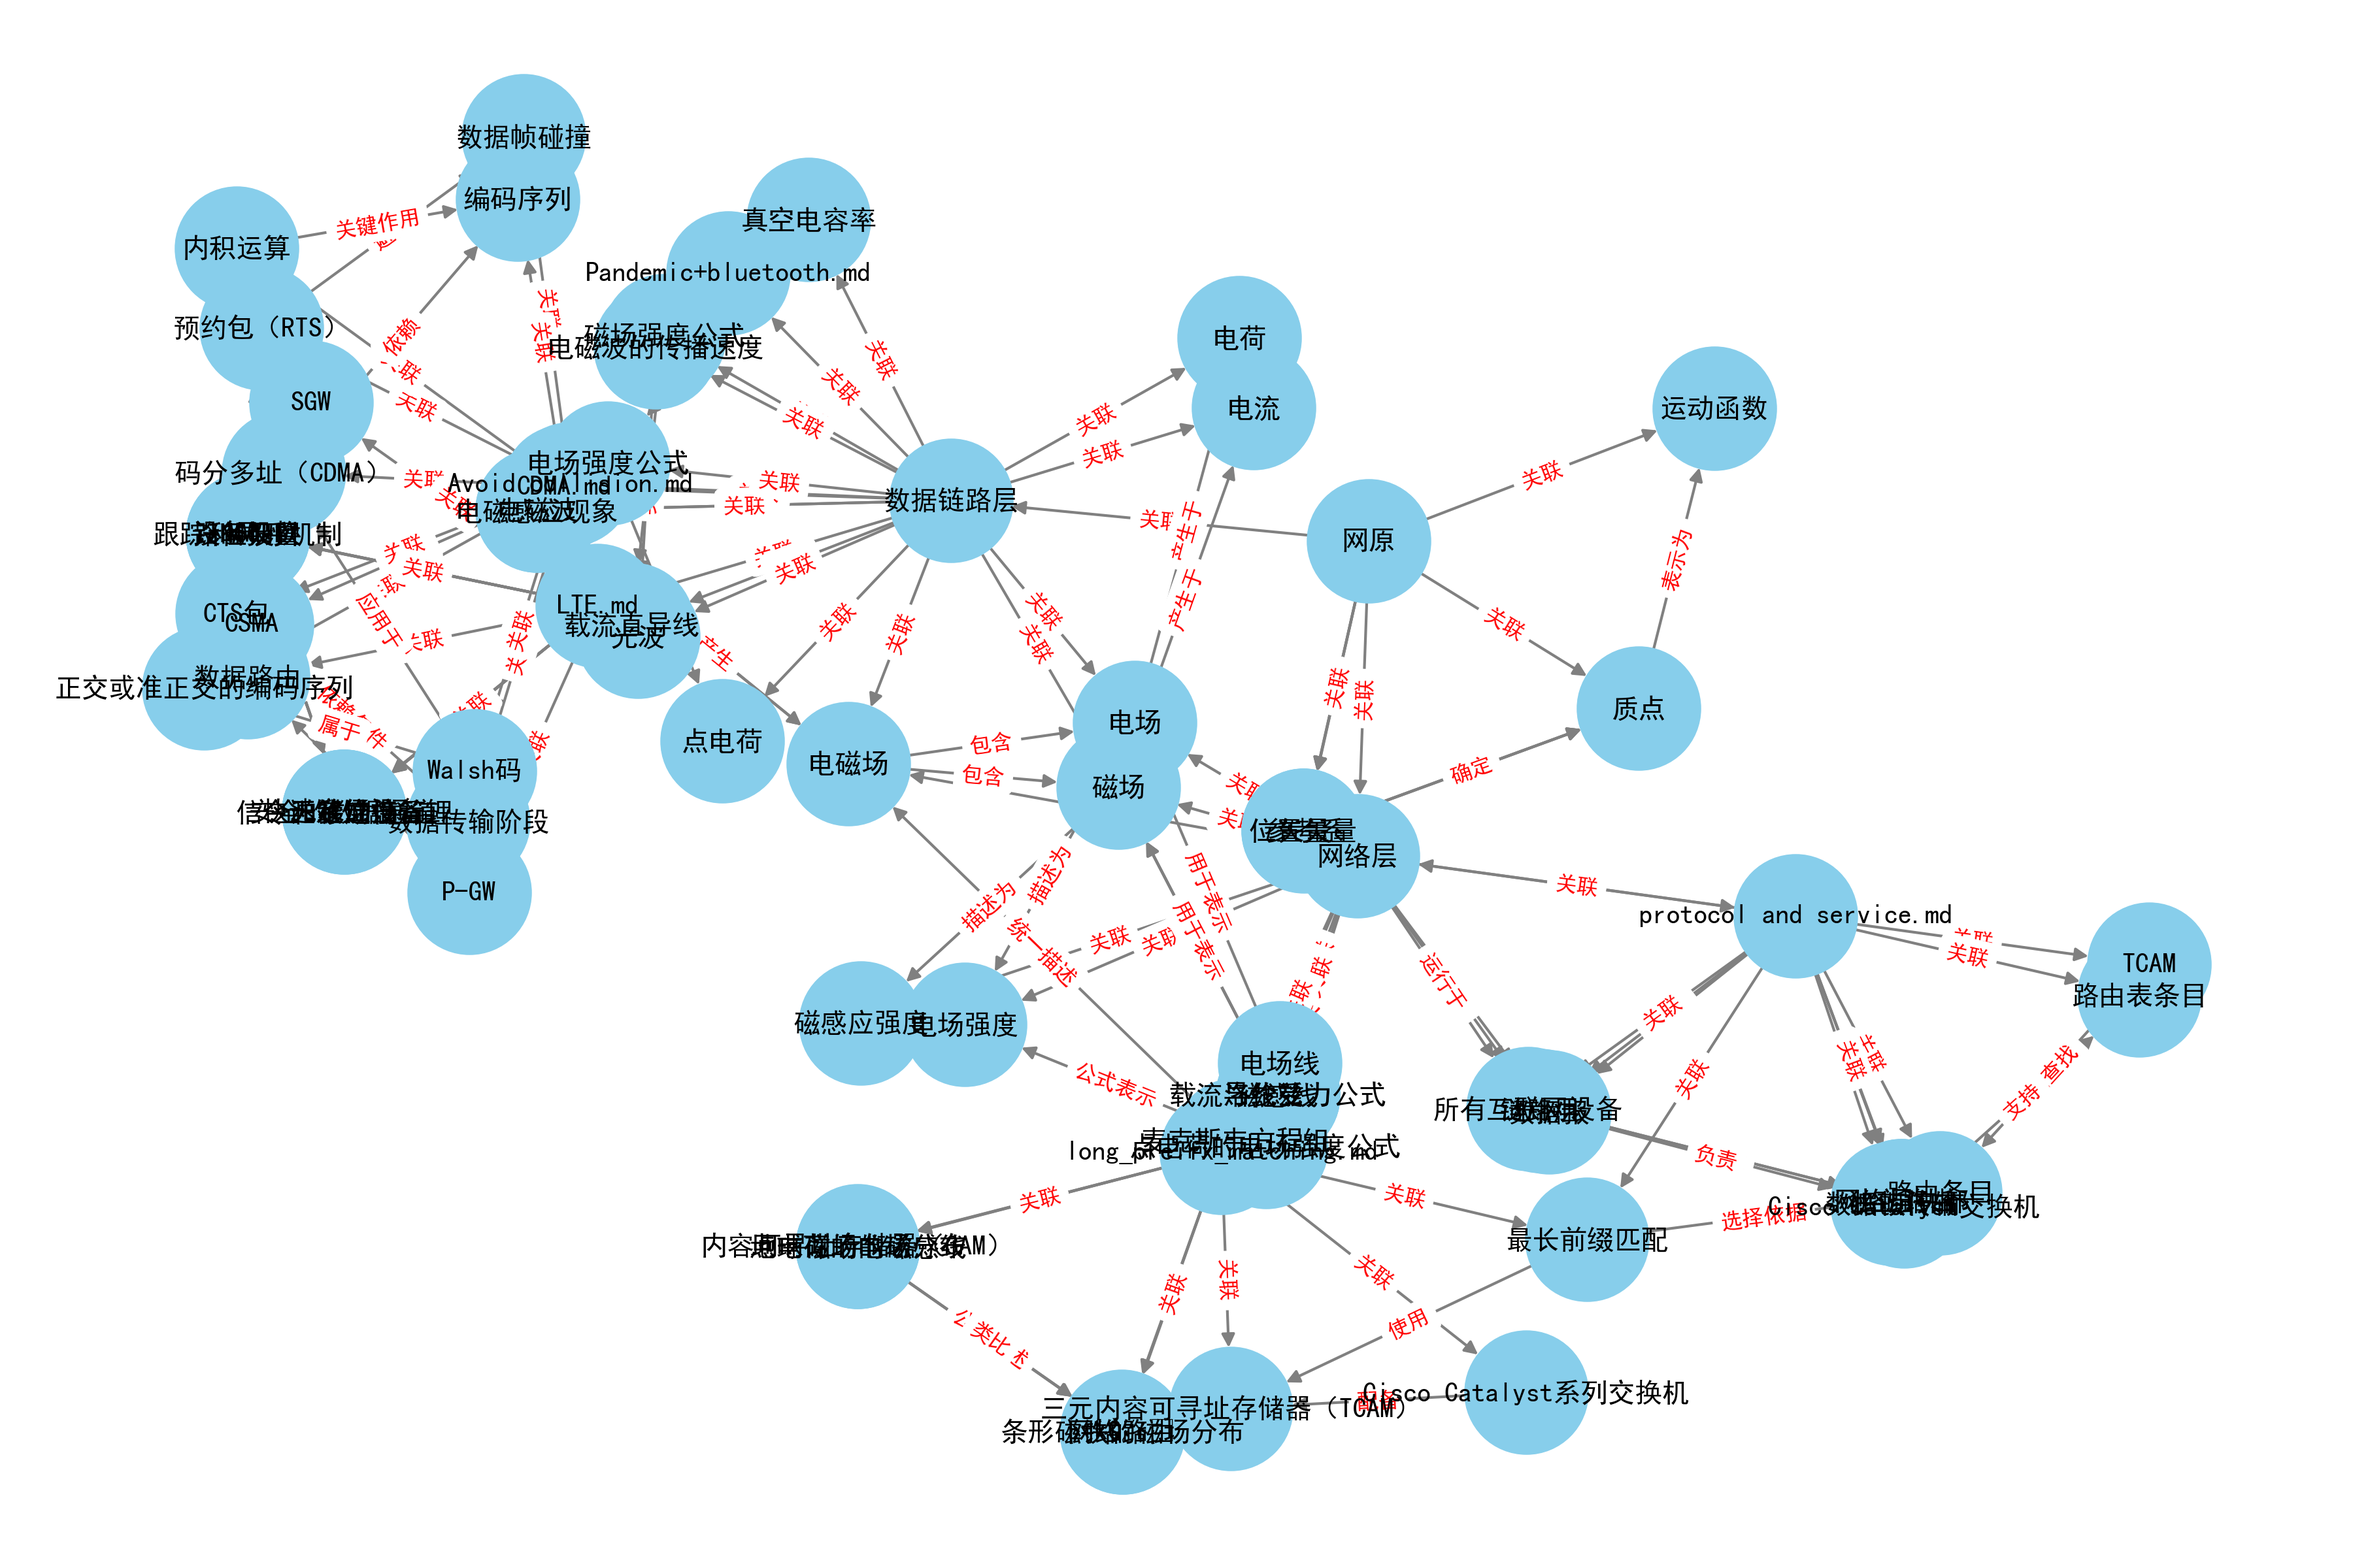
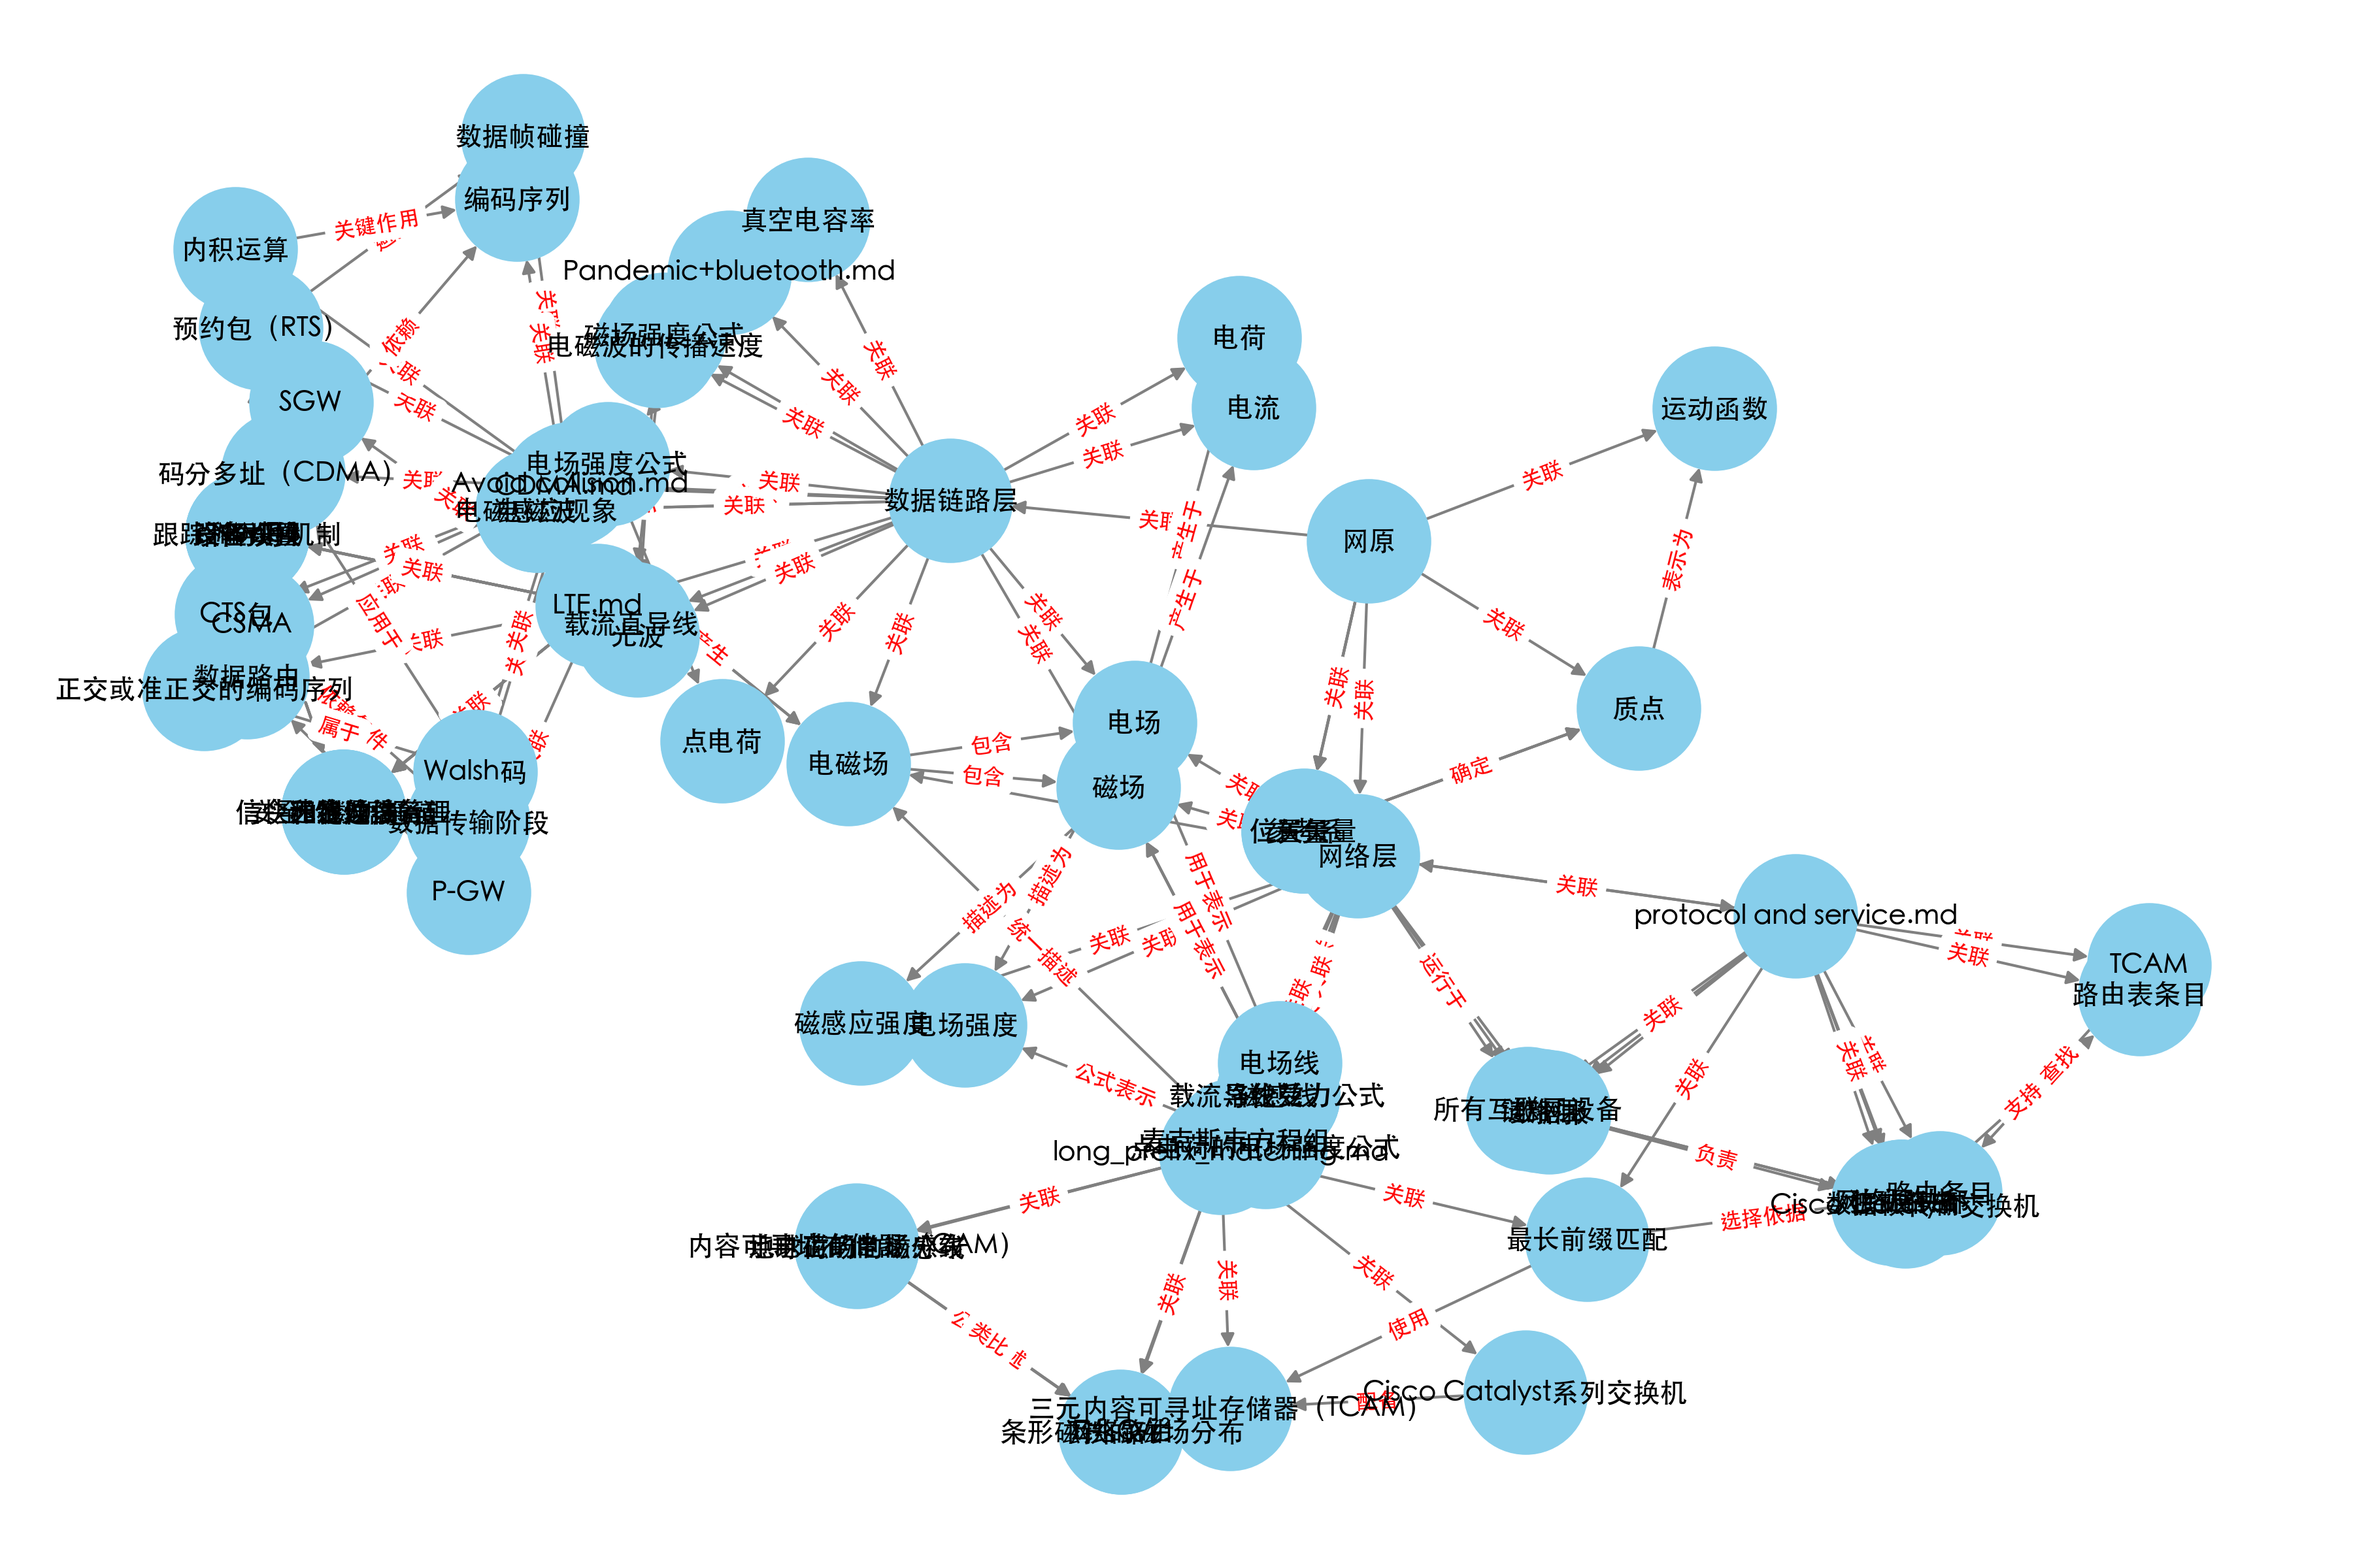
有关mac的一些改动

diff --git a/qg/graph_class.py b/qg/graph_class.py
@@ -1,3 +1,10 @@
+# 在导入matplotlib之前设置后端，避免GUI线程问题
+import matplotlib
+matplotlib.use('Agg')  # 使用非交互式后端
+# 设置环境变量，避免Qt冲突
+import os
+os.environ['QT_QPA_PLATFORM'] = 'offscreen'
+
 import networkx as nx
 from typing import Dict, List, Tuple
 import json
@@ -101,17 +108,20 @@ class KnowledgeGraph:
         """
         print(f"\n🖼 开始可视化知识图谱（最多显示 {max_nodes} 个节点）...")
 
-        # 设置支持中文的字体
-        try:
-            # ✅ Windows 常见字体
-            zh_font = fm.FontProperties(fname="C:/Windows/Fonts/simhei.ttf")
-        except:
-            try:
-                # ✅ MacOS 常见字体
-                zh_font = fm.FontProperties(fname="/System/Library/Fonts/STHeiti Medium.ttc")
-            except:
-                print("⚠ 未找到中文字体，中文可能无法正常显示。")
-                zh_font = None
+        # # 设置支持中文的字体
+        # try:
+        #     # ✅ Windows 常见字体
+        #     zh_font = fm.FontProperties(fname="C:/Windows/Fonts/simhei.ttf")
+        # except:
+        #     try:
+        #         # ✅ MacOS 常见字体
+        #         zh_font = fm.FontProperties(fname="/System/Library/Fonts/STHeiti Medium.ttc")
+        #     except:
+        #         print("⚠ 未找到中文字体，中文可能无法正常显示。")
+        #         zh_font = None
+
+        # 完全避免字体管理器，直接使用字符串
+        print("✅ 使用默认字体设置")
 
         # 限制可视化规模
         subgraph = self.graph.copy()
@@ -119,30 +129,91 @@ class KnowledgeGraph:
             nodes_subset = list(subgraph.nodes)[:max_nodes]
             subgraph = subgraph.subgraph(nodes_subset)
 
-        plt.figure(figsize=(12, 8))
-        # pos = nx.spring_layout(subgraph, weight='weight', seed=42, k=0.8/(len(subgraph)**0.5))
-        # pos = nx.circular_layout(subgraph)  # 替代 spring_layout
-        pos = nx.kamada_kawai_layout(subgraph)  # 替代 spring_layout
+        # 注释掉直接使用matplotlib的代码，改用子进程方式
+        # plt.figure(figsize=(12, 8))
+        # # pos = nx.spring_layout(subgraph, weight='weight', seed=42, k=0.8/(len(subgraph)**0.5))
+        # # pos = nx.circular_layout(subgraph)  # 替代 spring_layout
+        # pos = nx.kamada_kawai_layout(subgraph)  # 替代 spring_layout
 
-        # 绘制节点和边
-        nx.draw(subgraph, pos, with_labels=True, node_color="skyblue", edge_color="gray",
-                node_size=2000, font_size=10, font_family=zh_font.get_name() if zh_font else "sans-serif", arrows=True)
-
-        # 边的关系标签
-        edge_labels = nx.get_edge_attributes(subgraph, 'short')
+        # # 绘制节点和边
+        # nx.draw(subgraph, pos, with_labels=True, node_color="skyblue", edge_color="gray",
+        #         node_size=2000, font_size=10, font_family=zh_font.get_name() if zh_font else "sans-serif", arrows=True)
         
-        nx.draw_networkx_edge_labels(
-            subgraph, pos, edge_labels=edge_labels,
-            font_color='red', font_size=8,
-            font_family=zh_font.get_name() if zh_font else "sans-serif"
-        )
+        
+        try:
+            # 使用子进程来避免Qt和matplotlib的冲突
+            import subprocess
+            import tempfile
+            import pickle
+            
+            print("🔄 使用子进程生成图片...")
+            
+            # 准备数据
+            graph_data = {
+                'nodes': list(subgraph.nodes()),
+                'edges': list(subgraph.edges()),
+                'output_path': output_path
+            }
+            
+            # 创建临时文件保存数据
+            with tempfile.NamedTemporaryFile(mode='wb', suffix='.pkl', delete=False) as f:
+                pickle.dump(graph_data, f)
+                temp_file = f.name
+            
+            # 创建可视化脚本
+            viz_script = f'''
+import matplotlib
+matplotlib.use('Agg')
+import matplotlib.pyplot as plt
+import networkx as nx
+import pickle
+import sys
 
-        plt.axis("off")
-        plt.tight_layout()
-        plt.savefig(output_path, dpi=300)
-        plt.close()
+# 加载数据
+with open('{temp_file}', 'rb') as f:
+    data = pickle.load(f)
 
-        print(f"✅ 可视化完成，图片已保存至: {output_path}")
+# 重建图
+G = nx.DiGraph()
+for node in data['nodes']:
+    G.add_node(node)
+for edge in data['edges']:
+    G.add_edge(edge[0], edge[1])
+
+# 可视化
+plt.figure(figsize=(10, 6))
+pos = nx.random_layout(G)
+nx.draw(G, pos, with_labels=True, node_color='lightblue', node_size=1000, font_size=6)
+plt.axis('off')
+plt.savefig('{output_path}', dpi=100, bbox_inches='tight')
+plt.close('all')
+print("图片生成完成")
+'''
+            
+            # 运行子进程
+            result = subprocess.run([sys.executable, '-c', viz_script], 
+                                  capture_output=True, text=True, timeout=30)
+            
+            if result.returncode == 0:
+                print(f"✅ 可视化完成，图片已保存至: {output_path}")
+            else:
+                print(f"⚠ 子进程失败: {result.stderr}")
+                raise Exception("子进程生成图片失败")
+                
+        except Exception as e:
+            print(f"⚠ 可视化失败: {str(e)}")
+            # 尝试生成文本文件
+            try:
+                with open(output_path.replace('.png', '.txt'), 'w', encoding='utf-8') as f:
+                    f.write("知识图谱节点列表:\n")
+                    for node in self.graph.nodes:
+                        f.write(f"- {node}\n")
+                    f.write("\n知识图谱关系列表:\n")
+                    for edge in self.graph.edges(data=True):
+                        f.write(f"- {edge[0]} -> {edge[1]} ({edge[2].get('type', 'unknown')})\n")
+                print(f"✅ 已生成文本格式的知识图谱: {output_path.replace('.png', '.txt')}")
+            except:
+                print("⚠ 无法生成任何输出文件")
 
 
     def generate_questions(self) -> List[Dict[str, str]]:
@@ -757,11 +828,6 @@ class KnowledgeQuestionGenerator(SparkAPI):
                 print(f"请输入1-{len(concepts)}之间的数字！")
             except ValueError:
                 print("请输入有效数字！")
-if __name__ == "__main__":
-
-    # 1. 构建知识图谱
-    kg = KnowledgeGraph()
-    kg.load_knowledge_graph()
 
     
 if __name__ == "__main__":

diff --git a/kg_construction/src/workflow/initial_skeleton/documents_to_section.py b/kg_construction/src/workflow/initial_skeleton/documents_to_section.py
@@ -40,8 +40,24 @@ def load_folders(folder_path: str, depth=0):
         documents["name"] = os.path.basename(folder_path).replace(".md", "")
         documents["content"] = ""
         documents["depth"] = depth
-        with open(folder_path, "r", encoding="utf-8") as file:
-            documents["content"] = file.read()
+        # 尝试多种编码方式读取文件
+        encodings = ['utf-8', 'gbk', 'gb2312', 'gb18030', 'latin-1']
+        content = None
+        
+        for encoding in encodings:
+            try:
+                with open(folder_path, "r", encoding=encoding) as file:
+                    content = file.read()
+                print(f"✅ 成功使用 {encoding} 编码读取文件: {os.path.basename(folder_path)}")
+                break
+            except UnicodeDecodeError:
+                continue
+        
+        if content is None:
+            print(f"❌ 无法读取文件 {folder_path}，尝试了所有编码方式")
+            content = ""  # 如果所有编码都失败，使用空字符串
+        
+        documents["content"] = content
     return documents
 
 

diff --git a/config.py b/config.py
@@ -1,6 +1,8 @@
 import os
+from dotenv import load_dotenv
 # model_name = "4.0Ultra"
-model_name = "Pro/deepseek-ai/DeepSeek-V3"
+# model_name = "Pro/deepseek-ai/DeepSeek-V3"
+model_name = "THUDM/glm-4-9b-chat"
 
 """
 4.0Ultra
@@ -40,6 +42,8 @@ json_feature = {
     "deepseek-ai/DeepSeek-V3": True,
     "Pro/deepseek-ai/DeepSeek-V3": False,
 }
+
+load_dotenv()
 # API key configs
 spark_api_key = os.getenv("spark_api_key","")
 silicon_api_key = os.getenv("silicon_api_key","") # SiliconFlow API key, if applicable

diff --git a/qt_main.py b/qt_main.py
@@ -439,6 +439,13 @@ class MainWindow(QWidget):
 
 
 if __name__ == '__main__':
+    # 设置环境变量来解决Qt插件问题
+    os.environ['QT_QPA_PLATFORM'] = 'cocoa'  # macOS专用
+    os.environ['QT_MAC_WANTS_LAYER'] = '1'
+    
+    # 禁用Qt插件的警告
+    os.environ['QT_LOGGING_RULES'] = '*.debug=false;qt.qpa.*=false'
+    
     multiprocessing.freeze_support()
     app = QApplication(sys.argv)
     w = MainWindow()
